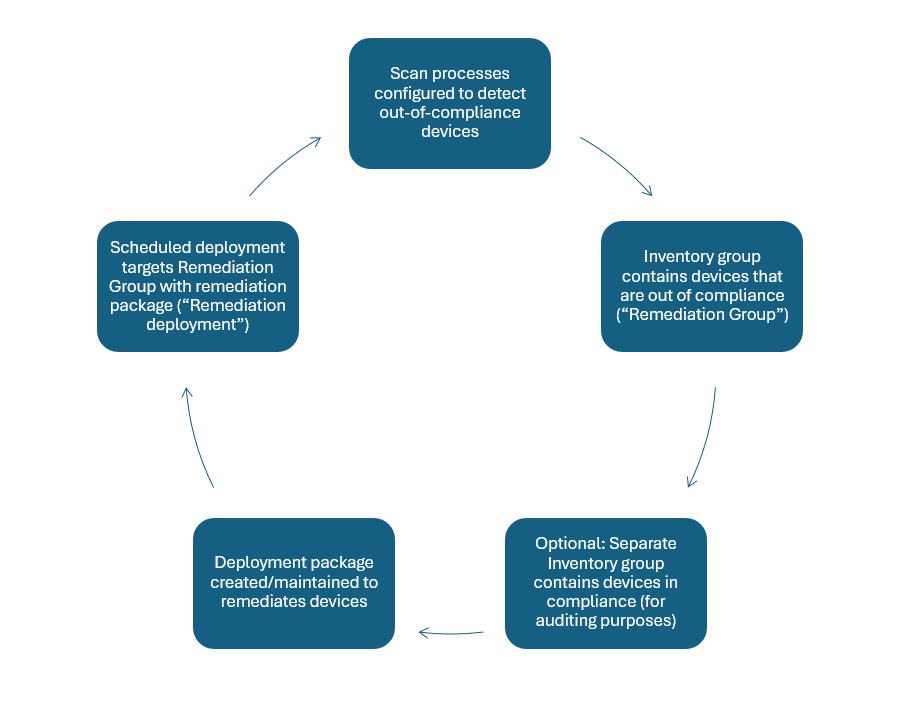
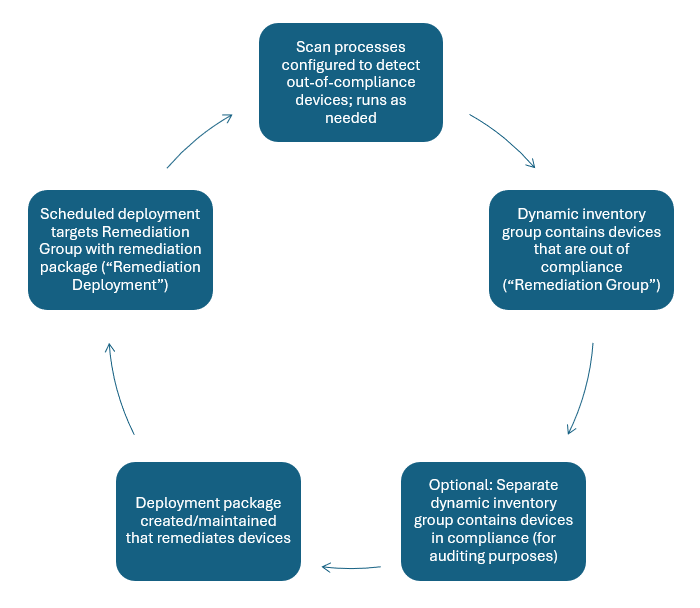
Updates to PDQ remediation article; newer gem file to reflect updated dependencies.

diff --git a/_drafts/2024-02-08-PDQ-technique-remediation-deployments.md b/_drafts/2024-02-08-PDQ-technique-remediation-deployments.md
@@ -8,23 +8,21 @@ tags:   [pdq, pdqdeploy, pdqinventory, deployment, installs, remediation, automa
 
 ### Background ###
 
-We are big fans of [PDQ](https://www.pdq.com)'s products, starting with Deploy many years ago and a few years back adding Inventory so we could move to [(legacy) LAPS integrations for our deployments](https://help.pdq.com/hc/en-us/articles/115001132352-LAPS-Integration-with-PDQ-Inventory-and-PDQ-Deploy), among other benefits. Their reliability, simplicity and features are a pleasant surprise, and we've been able to use the software to effectively solve problems and make our own lives easier. And the pricing model works really well for our small team. 
+We are big fans of [PDQ](https://www.pdq.com)'s products, starting with Deploy many years ago and a few years back adding Inventory so we could move to [LAPS integrations for our deployments](https://help.pdq.com/hc/en-us/articles/115001132352-LAPS-Integration-with-PDQ-Inventory-and-PDQ-Deploy), among other benefits. Their reliability, simplicity and features are a pleasant surprise, and we've been able to use the software to effectively solve problems and make our own lives easier. And the pricing model works really well for our small team. 
 
 As I've talked to more colleagues about how we use the software, it became obvious that we needed to write up a particular way in which we use these products. Not because our technique is novel or even particularly interesting, as I'm sure most folks are doing something similar with their PDQ environments. But it is a little complex and perhaps not an obvious way to use the products for beginners, who may not realize that PDQ D&I can be used for hands-off, automated deployments or configuration management jobs. We've come to call the technique "Remediation Deployments" internally. 
 
 ## Our approach: Remediation Deployments ##
 
-![Image showing a cycle diagram of our Remediation Deployments workflow](assets/images/24-02-pdq-remediation/misartg-pdq-remediation-cycle-diagram.png)
+![Image showing a cycle diagram of our Remediation Deployments workflow](/assets/images/24-02-pdq-remediation/misartg-pdq-remediation-cycle-diagram.png)
 
 The idea is simple:
 
-1. Create or update your PDQ Inventory Scan Profiles/Scanners to detect systems that are out of compliance with your desired state. Be sure to set Triggers that run often enough to meet your time resolution goals, without running excessively. 
+1. Create or update your PDQ Inventory Scan Profiles/Scanners to detect systems that are out of compliance with your desired state. Be sure to set Triggers that run often enough to meet your time resolution goals, without running excessively[^fn-runningscansafterdeployments]. 
 
-2. Create a PDQ Inventory group that dynamically contains systems that lack the desired state. This is the "Remediation Group". You may not desire every system to have this particular state or config, so scope this group to only the audience of *potential* machines you'd want.
+2. Create a PDQ Inventory group that dynamically contains systems that lack the desired state. This is the "Remediation Group". You may not desire every system to have this particular state or config, so scope this group to only the audience of *potential*[^fn-temporarilyunavailablecomputers] machines you'd want.
 
-[^fn-temporarilyunavailablecomputers]: We take this a step further in our environment by having group structures that detect temporarily unavailable machines, whether that be because they're offline, unmanageable or broken, non-compatible OSes (say, Linux), or what have you. We then exclude the temporarily unavailable machines from nearly every group that's scoped by a deployment. Like other dynamic groups, temporarily unavailable computers will leave those groups once they become available to manage again. We prefer this approach to seeing dozens of errored clients in our deployments, but it's mostly a style preference. 
-
-3. Optional: Create a related PDQ Inventory group that identifies systems with the state or configuration that you desire. It isn't strictly necessary to do this, but you may want to, as it could help you with the other steps, analysis/reporting, or just for completeness. If you do create a group like this, you can use it to verify that there's no overlap in membership with your remediation group. 
+3. Optional: Create a related PDQ Inventory group that identifies systems with the state or configuration that you desire. It isn't strictly necessary to do this, but you may want to depending on the situation, as it could help you with the other work, auditing/reporting, or just for completeness. If you do create a group like this, you can use it to verify that there's no overlap in membership with your remediation group.
 
 4. Create a PDQ Deploy package that modifies a system, changing its state or configuration to something you desire. This can be as simple as an application install or update, or something less structured/more complicated.
 
@@ -32,13 +30,13 @@ The idea is simple:
 
 When working correctly, the machines that don't have what you want will end up in the Remediation Group, and be remediated by the Remediation Deployment, without you having to do anything. Then they fall out of the Remediation Group as a result of your remediating PDQ Deploy package, PDQ Inventory scans, and group membership rules.
 
+[^fn-runningscansafterdeployments]: We sometimes help this along by running the appropriate PDQ scan after a relevant deployment is done. 
+
+[^fn-temporarilyunavailablecomputers]: We take this a step further in our environment by having group structures that detect temporarily unavailable machines, whether that be because they're offline, unmanageable or broken, non-compatible OSes (say, Linux), or what have you. We then exclude the temporarily unavailable machines from nearly every group that's scoped by a deployment. Like other dynamic groups, temporarily unavailable computers will leave those groups once they become available to manage again. We prefer this approach to seeing dozens of errored clients in our deployments, but it's mostly a style preference. 
+
 ### Remediation Deployment concept example ###
 
 Let's walk through the concept with an example. 
 
-
-
-
-
-
+---
 
